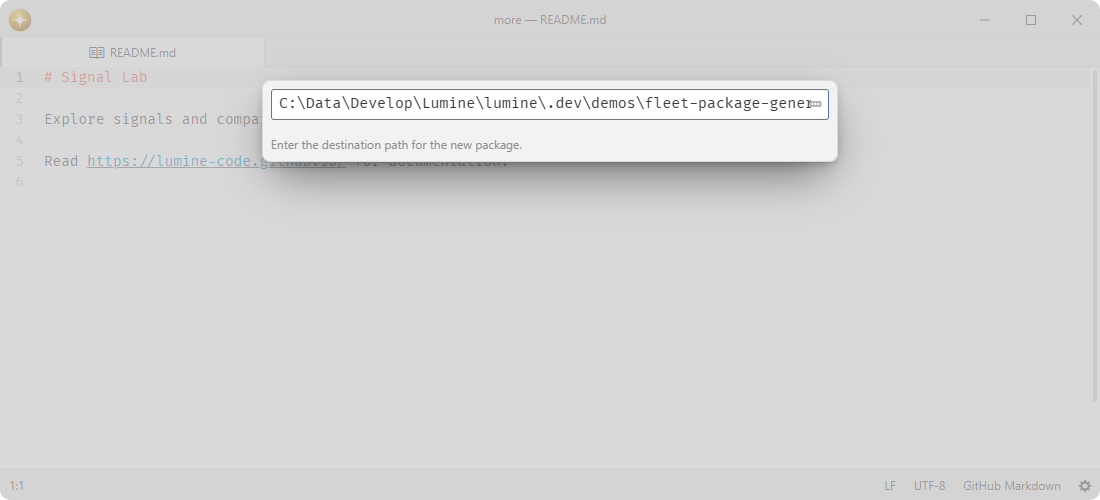
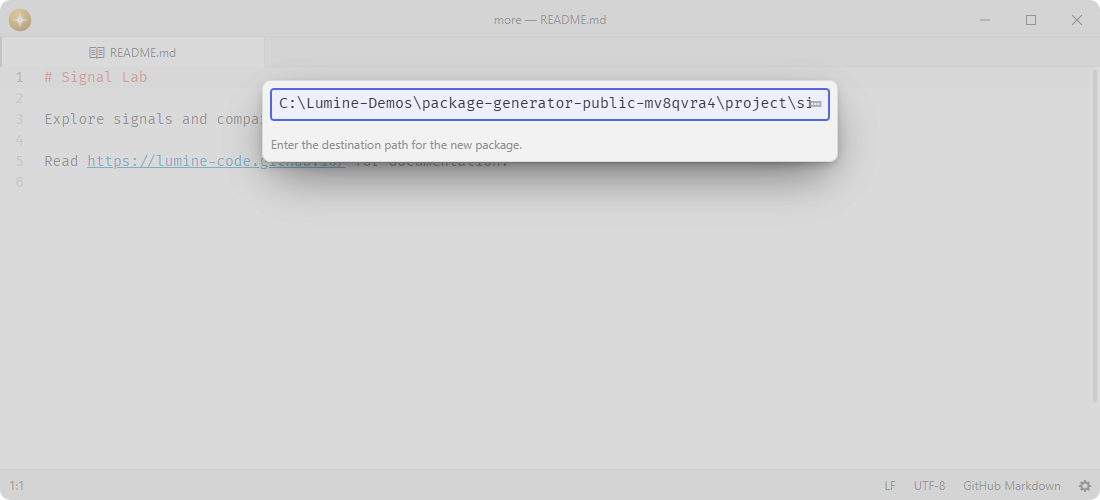
Capture package scaffolding with a neutral destination

Changed region(s): [[0.2782, 0.18, 0.7418, 0.24]]

diff --git a/demo.js b/demo.js
@@ -15,7 +15,8 @@ module.exports = {
       file: "demo.png",
       caption: "Choose a destination for a new package scaffold.",
       timeout: 60000,
-      async run(context) {
+      async run() {},
+      async afterPointerMove(context) {
         const { lumine, state, fixture } = context;
         {
           lumine.commands.dispatch(
@@ -25,6 +26,9 @@ module.exports = {
           lumine.packages
             .getActivePackage("package-generator")
             .mainModule.view.miniEditor.setText(fixture("signal-tools"));
+          lumine.packages
+            .getActivePackage("package-generator")
+            .mainModule.view.miniEditor.moveToEndOfLine();
         }
       },
       ready() {
